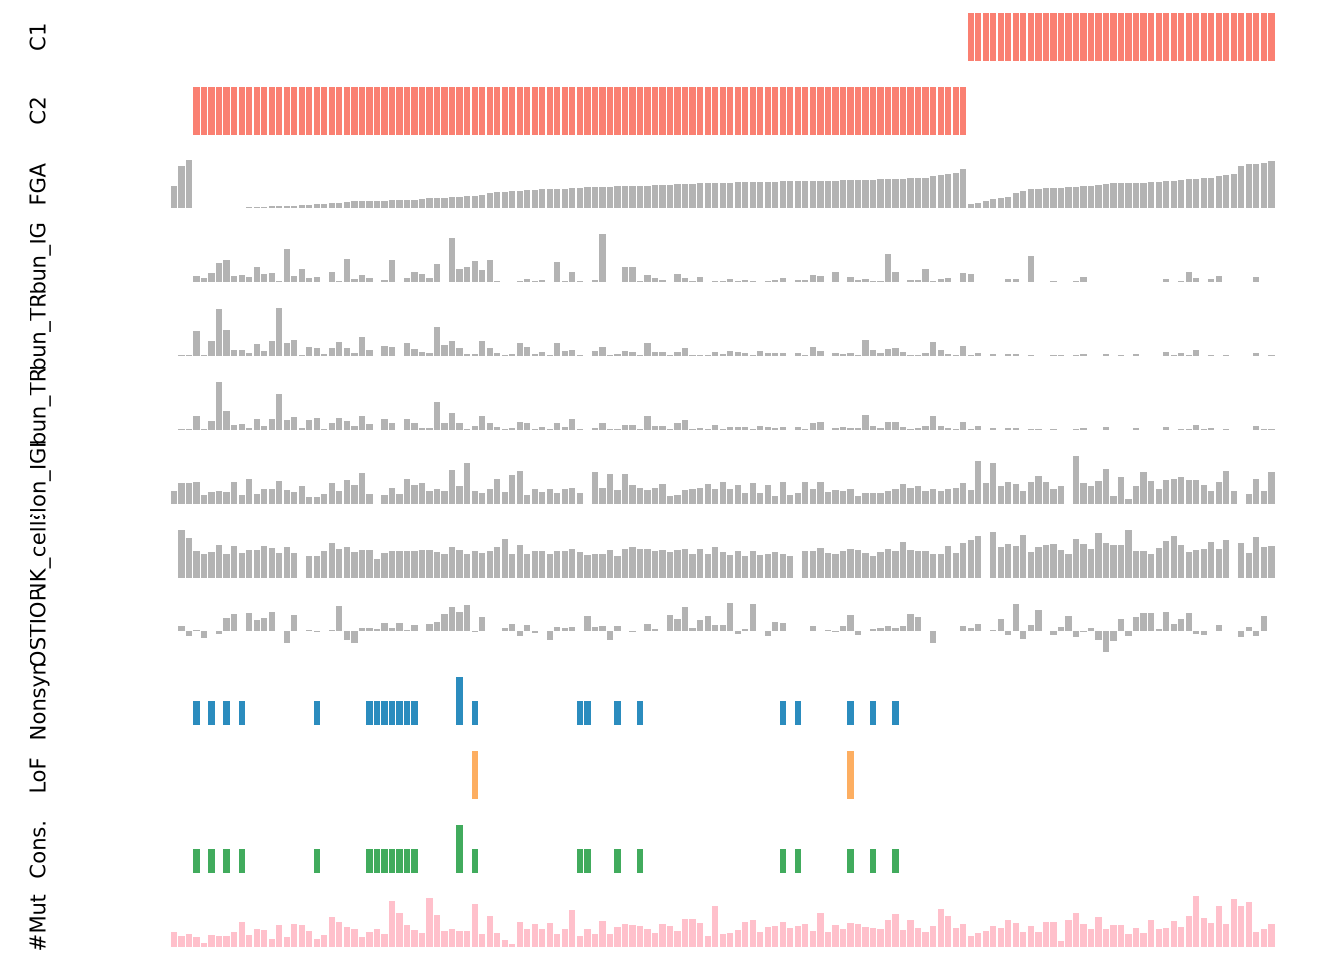
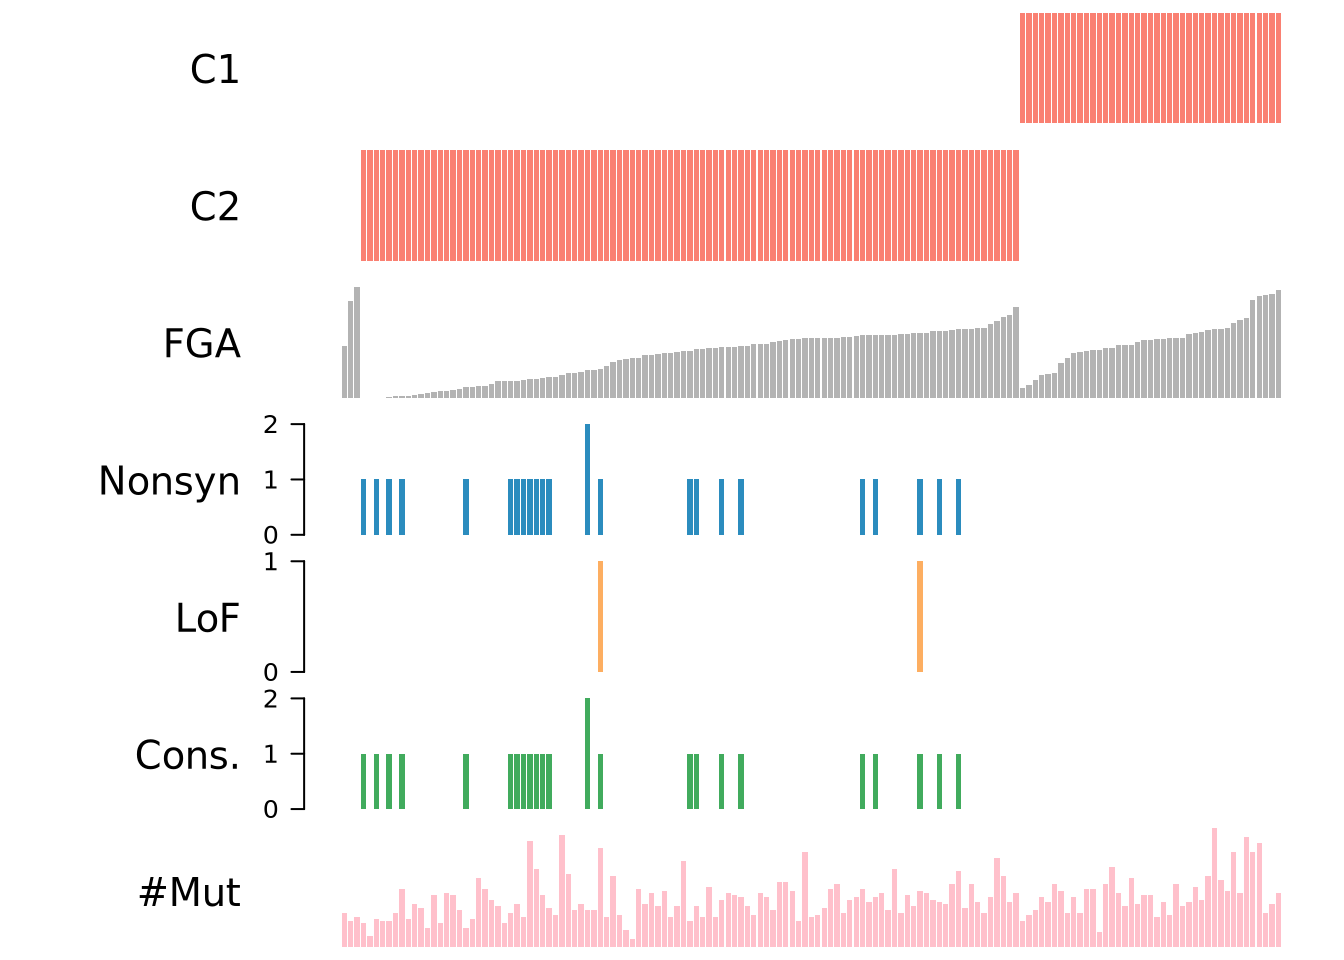
Update individualgene HTML and figures

diff --git a/docs/individualgene.html b/docs/individualgene.html
@@ -524,15 +524,15 @@ project makes it easier to run your code on other machines.</p>
 <div class="panel panel-default">
 <div class="panel-heading">
 <p class="panel-title">
-<a data-toggle="collapse" data-parent="#workflowr-checks" href="#strongRepositoryversionstrongahrefhttpsgithubcomLDZhangQRdiffdriveranalysistree330acf4a0127ee886854ae6eab617b171e382b72targetblank330acf4a">
+<a data-toggle="collapse" data-parent="#workflowr-checks" href="#strongRepositoryversionstrongahrefhttpsgithubcomLDZhangQRdiffdriveranalysistreef2f45cabf8bfd77e79c1d580f9be21d08359dbfftargetblankf2f45caa">
 <span class="glyphicon glyphicon-ok text-success"
 aria-hidden="true"></span> <strong>Repository version:</strong>
-<a href="https://github.com/LD-ZhangQR/diffdriver-analysis/tree/330acf4a0127ee886854ae6eab617b171e382b72" target="_blank">330acf4</a>
+<a href="https://github.com/LD-ZhangQR/diffdriver-analysis/tree/f2f45cabf8bfd77e79c1d580f9be21d08359dbff" target="_blank">f2f45ca</a>
 </a>
 </p>
 </div>
 <div
[2 lines of base64/hex data omitted]
 class="panel-collapse collapse">
 <div class="panel-body">
 <p>
@@ -542,7 +542,7 @@ reproducibility.
 </p>
 <p>
 The results in this page were generated with repository version
-<a href="https://github.com/LD-ZhangQR/diffdriver-analysis/tree/330acf4a0127ee886854ae6eab617b171e382b72" target="_blank">330acf4</a>.
+<a href="https://github.com/LD-ZhangQR/diffdriver-analysis/tree/f2f45cabf8bfd77e79c1d580f9be21d08359dbff" target="_blank">f2f45ca</a>.
 See the <em>Past versions</em> tab to see a history of the changes made
 to the R Markdown and HTML files.
 </p>
@@ -630,6 +630,40 @@ Message
 </tr>
 </thead>
 <tbody>
+<tr>
+<td>
+Rmd
+</td>
+<td>
+<a href="https://github.com/LD-ZhangQR/diffdriver-analysis/blob/f2f45cabf8bfd77e79c1d580f9be21d08359dbff/analysis/individualgene.Rmd" target="_blank">f2f45ca</a>
+</td>
+<td>
+Qirui Zhang
+</td>
+<td>
[phone redacted]
+</td>
+<td>
+Update of individual gene analysis
+</td>
+</tr>
+<tr>
+<td>
+html
+</td>
+<td>
+<a href="https://rawcdn.githack.com/LD-ZhangQR/diffdriver-analysis/f2f45cabf8bfd77e79c1d580f9be21d08359dbff/docs/individualgene.html" target="_blank">f2f45ca</a>
+</td>
+<td>
+Qirui Zhang
+</td>
+<td>
[phone redacted]
+</td>
+<td>
+Update of individual gene analysis
+</td>
+</tr>
 <tr>
 <td>
 html
@@ -1196,6 +1230,27 @@ Qirui Zhang
 </table>
 </div>
 </div>
+<pre class="r"><code>pheno_path &lt;- &quot;/dartfs/rc/lab/S/Szhao/qiruiz/diffdriver/cbioportal_download/Fraction.Genome.Altered.txt&quot;
+pheno &lt;- read.table(pheno_path, header = TRUE, sep = &quot;\t&quot;)
+head(pheno)</code></pre>
+<pre><code>      SampleID Fraction.Genome.Altered
+1 TCGA-02-0001                  0.2459
+2 TCGA-02-0003                  0.1480
+3 TCGA-02-0006                  0.2391
+4 TCGA-02-0007                  0.1930
+5 TCGA-02-0009                  0.1594
+6 TCGA-02-0010                  0.1665</code></pre>
+<pre class="r"><code>diffdriver::plot_mut(gene_name = &quot;KIT&quot;, mut= mut, pheno = pheno, totalnttype = 96, 
+                     anno_dir =  &quot;/dartfs/rc/lab/S/Szhao/qiruiz/diffdriver/temp/annodir96&quot;)</code></pre>
+<pre><code>[1] &quot;coding...&quot;
+[1] &quot;processing ...&quot;
+[1] &quot;for qnvars, filling in missing values ...&quot;
+[1] &quot;for cvars (0/1 categories), filling in missing values ...&quot;
+[1] &quot;normalizing categorical variables in annotation matrix ...&quot;
+[1] &quot;Only keeping the first two columns of the phenotype data frame.&quot;
+[1] &quot;phenotype name is Fraction.Genome.Altered&quot;
+[1] &quot;number of samples shared in phenotype and mutation file: 147&quot;</code></pre>
+<p><img src="figure/individualgene.Rmd/unnamed-chunk-14-1.png" width="672" style="display: block; margin: auto;" /></p>
 <pre class="r"><code>library(data.table)
 
 pheno_files &lt;- list(